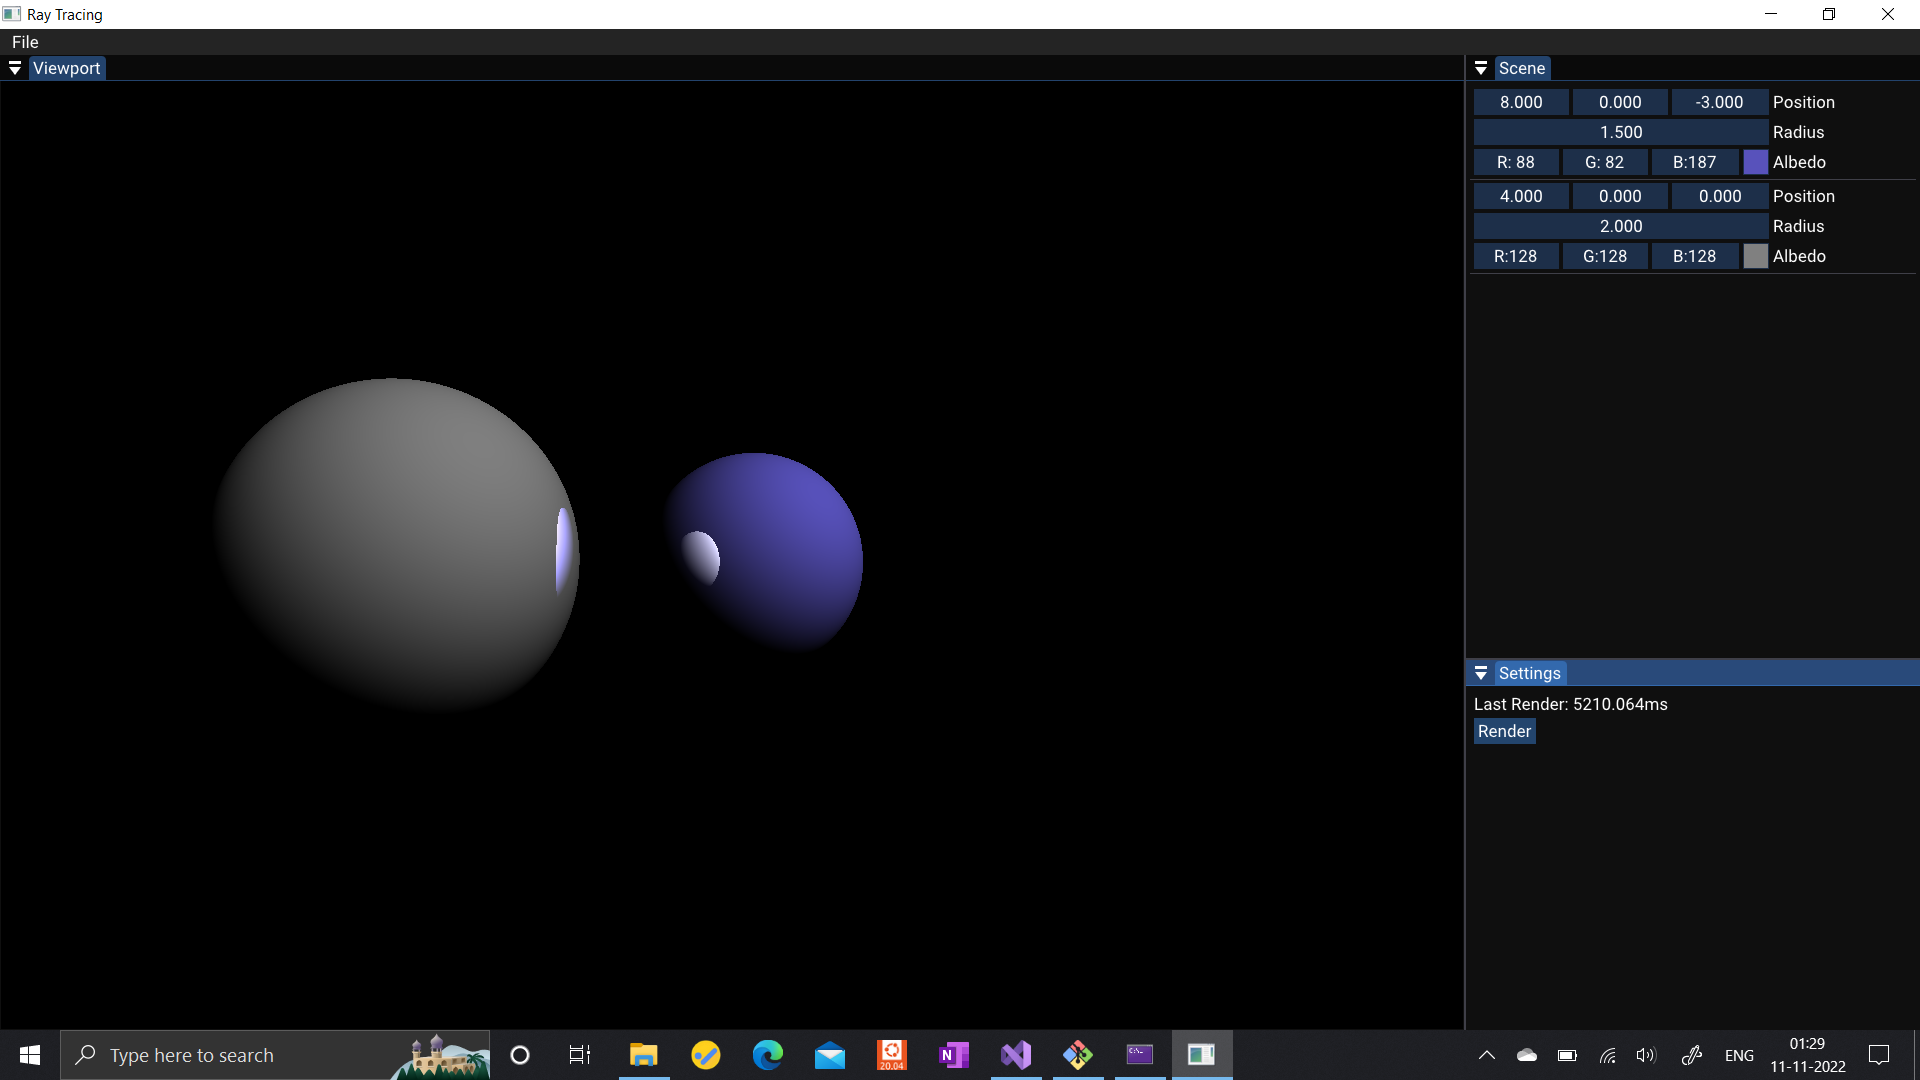
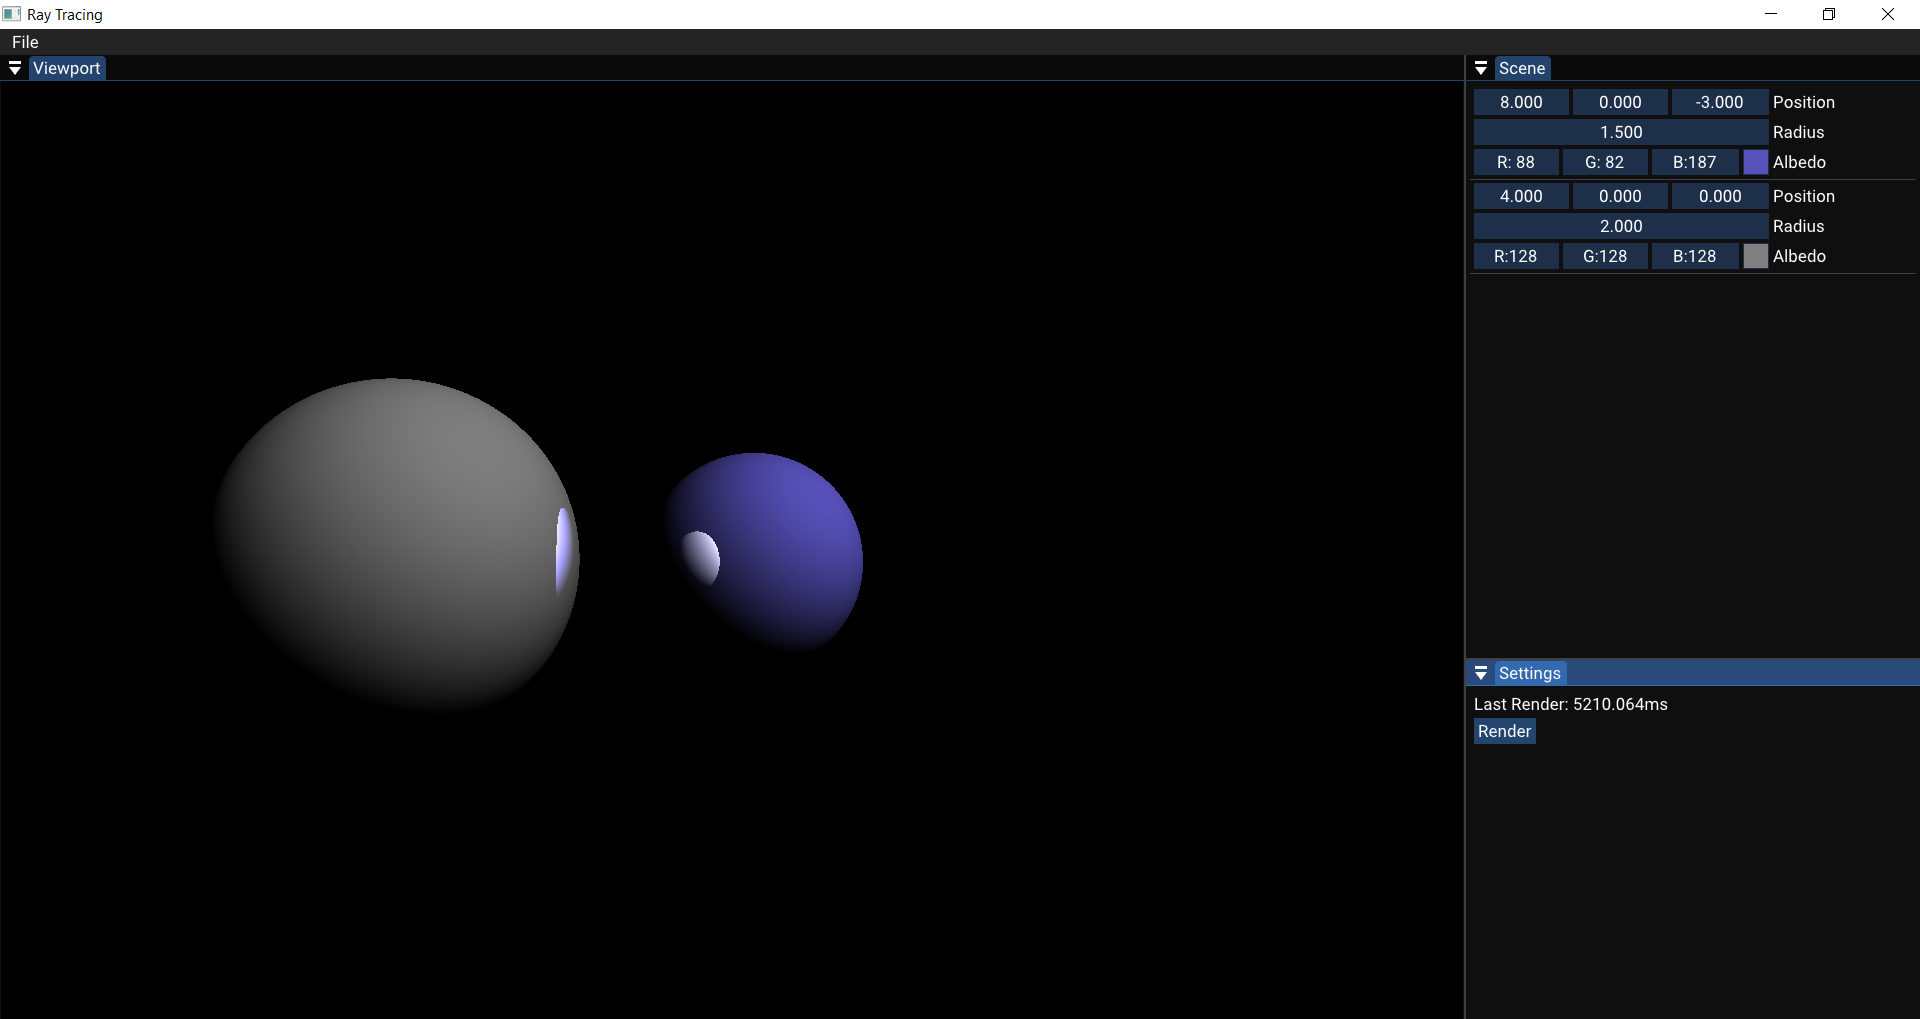
simulated PBR

diff --git a/RTweekend/src/BasicRenderMain.cpp b/RTweekend/src/BasicRenderMain.cpp
@@ -18,21 +18,28 @@ public:
 	ExampleLayer()
 		:m_Camera(45.0f, 0.1f, 100.0f) 
 	{
-		//m_Scene.Speheres.push_back(Sphere{ {0.0f, 0.0f, 0.0f}, 0.5f, {0.5, 0.5, 0.5} }); //Initializer list way
-		{
-			Sphere sphere;
-			sphere.Position = { 0.0f, 0.0f, -5.0f };
-			sphere.Radius = 1.5f;
-			sphere.Albedo = { 0.5f, 0.0f, 0.5f };
-			m_Scene.Speheres.push_back(sphere);
-		}
+		Material& pinkSpehere = m_Scene.Materials.emplace_back();
+		pinkSpehere.Albedo = { 1.0f, 0.0f, 1.0f };
+		pinkSpehere.Roughness = 0.0f;
+
+		Material& blueSphere = m_Scene.Materials.emplace_back();
+		blueSphere.Albedo = { 0.2f, 0.3f, 1.0f };
+		pinkSpehere.Roughness = 0.1f;
 
 		{
 			Sphere sphere;
 			sphere.Position = { 0.0f, 0.0f, 0.0f };
-			sphere.Radius = 0.5f;
-			sphere.Albedo = { 0.5f, 0.5f, 0.5f };
-			m_Scene.Speheres.push_back(sphere);
+			sphere.Radius = 1.0f;
+			sphere.MaterialIndex = 0;
+			m_Scene.Spheres.push_back(sphere);
+		}
+
+		{
+			Sphere sphere;
+			sphere.Position = { 0.0f, -101.0f, 0.0f };
+			sphere.Radius = 100.0f;
+			sphere.MaterialIndex = 1;
+			m_Scene.Spheres.push_back(sphere);
 		}
 
 	}
@@ -53,19 +60,37 @@ public:
 		ImGui::End();
 
 		ImGui::Begin("Scene");
-		for (int i = 0; i < m_Scene.Speheres.size() ; i++) 
+		for (size_t i = 0; i < m_Scene.Spheres.size() ; i++) 
 		{
 			ImGui::PushID(i);
 
-			Sphere& sphere = m_Scene.Speheres[i];
-			ImGui::DragFloat3("Position", glm::value_ptr(m_Scene.Speheres[i].Position), 0.1f);
-			ImGui::DragFloat("Radius", &m_Scene.Speheres[i].Radius);
-			ImGui::ColorEdit3("Albedo", glm::value_ptr(m_Scene.Speheres[i].Albedo));
+			Sphere& sphere = m_Scene.Spheres[i];
+			ImGui::DragFloat3("Position", glm::value_ptr(m_Scene.Spheres[i].Position), 0.1f);
+			ImGui::DragFloat("Radius",&sphere.Radius, 0.1f);
+			ImGui::DragInt("Material", &sphere.MaterialIndex, 1.0f, 0, (int)m_Scene.Materials.size() - 1);
 			
 			ImGui::Separator();
 
 			ImGui::PopID();
 		}
+
+		for (size_t i = 0; i < m_Scene.Materials.size(); i++)
+		{
+
+			ImGui::PushID(i);
+
+			Material& material = m_Scene.Materials[i];
+
+			//ImGui::ColorEdit3("Albedo", glm::value_ptr(m_Scene.Spheres[i].Albedo));
+			ImGui::ColorEdit3("Albedo", glm::value_ptr(material.Albedo));
+			ImGui::DragFloat("Roughness", &material.Roughness, 0.05f, 0.0f, 1.0f);
+			ImGui::DragFloat("Metallic", &material.Metallic, 0.05f, 0.0f, 1.0f);
+
+			ImGui::Separator();
+
+			ImGui::PopID();
+		}
+
 		ImGui::End();
 
 		ImGui::PushStyleVar(ImGuiStyleVar_WindowPadding, ImVec2(0.0f, 0.0f));
@@ -108,7 +133,6 @@ private:
 	Camera m_Camera;
 	Scene m_Scene;
 	uint32_t m_ViewportWidth = 0, m_ViewportHeight = 0;
-	int m_numberofSpheres = 1;
 
 	float m_lastRenderTime = 0.0f;
 };

diff --git a/RTweekend/src/Renderer.cpp b/RTweekend/src/Renderer.cpp
@@ -69,14 +69,14 @@ glm::vec4 Renderer::PerPixel(uint32_t x, uint32_t y)
 	glm::vec3 color(0.0f);
 	float multiplier = 1.0f;
 
-	int bounces = 2;
+	int bounces = 5;
 	
 	for (int i = 0 ; i < bounces; i++)
 	{
 		Renderer::HitPayload payload = TraceRay(ray);
 		if (payload.hitDistance < 0.0f)
 		{
-			glm::vec3 skyColor = glm::vec3(0.0f, 0.0f, 0.0f);
+			glm::vec3 skyColor = glm::vec3(0.6f, 0.7f, 0.9f);
 			color += skyColor * multiplier;
 			break;
 		}
@@ -88,17 +88,20 @@ glm::vec4 Renderer::PerPixel(uint32_t x, uint32_t y)
 		//lightIntensity calculation
 		float lightIntensity = glm::max(glm::dot(payload.WorldNormal, -lightDirection), 0.0f);
 
-		const Sphere& sphere = m_ActiveScene->Speheres[payload.ObjectIndex];
-		glm::vec3 sphereColor = sphere.Albedo;
+		const Sphere& sphere = m_ActiveScene->Spheres[payload.ObjectIndex];
+		const Material& material = m_ActiveScene->Materials[sphere.MaterialIndex];
+
+		glm::vec3 sphereColor = material.Albedo;
 		sphereColor *= lightIntensity;
 		color += sphereColor * multiplier;
 
-		multiplier += 0.7f;
+		multiplier *= 0.5f;
 
 
 		//Now after bouncing the Origin and RayDirections need to be changed
 		ray.Origin = payload.WorldPosition + payload.WorldNormal * 0.0001f;
-		ray.Direction = glm::reflect(ray.Direction, payload.WorldNormal);
+		ray.Direction = glm::reflect(ray.Direction, 
+			payload.WorldNormal + material.Roughness * Walnut::Random::Vec3(-0.5f, 0.5f));
 
 	}
 
@@ -118,10 +121,10 @@ Renderer::HitPayload Renderer::TraceRay(const Ray& ray)
 	int closestSphere = -1;
 	float hitDistance =  std::numeric_limits<float>::max(); // FLT_MAX;
 
-	for (size_t i = 0 ; i <  m_ActiveScene->Speheres.size(); i++) 
+	for (size_t i = 0 ; i <  m_ActiveScene->Spheres.size(); i++) 
 	{
 		
-		const Sphere& sphere = m_ActiveScene->Speheres[i];
+		const Sphere& sphere = m_ActiveScene->Spheres[i];
 
 		glm::vec3 origin = ray.Origin - sphere.Position;
 
@@ -164,7 +167,9 @@ Renderer::HitPayload Renderer::ClosestHit(const Ray& ray, float hitDistance, int
 	payload.hitDistance = hitDistance;
 	payload.ObjectIndex = objectIndex;
 	
-	const Sphere& closestSphere = m_ActiveScene->Speheres[objectIndex];
+	const Sphere& closestSphere = m_ActiveScene->Spheres[objectIndex];
+
+	//const Sphere& closestSphere = m_ActiveScene->Speheres[objectIndex];
 
 	glm::vec3 origin = ray.Origin - closestSphere.Position;
 	payload.WorldPosition = origin + ray.Direction * hitDistance;

diff --git a/RTweekend/src/Scene.h b/RTweekend/src/Scene.h
@@ -4,13 +4,22 @@
 
 #include <vector>
 
+struct Material
+{
+	glm::vec3 Albedo{ 1.0f };
+	float Roughness = 1.0f;
+	float Metallic = 0.0f;
+
+};
+
 struct Sphere {
-	glm::vec3 Position{0.0f, 0.0f, 0.0f};
+	glm::vec3 Position{0.0f};
 	float Radius = 0.5f;
 
-	glm::vec3 Albedo{ 1.0f };
+	int MaterialIndex = 0;
 };
 
 struct Scene {
-	std::vector<Sphere> Speheres;
+	std::vector<Sphere> Spheres;
+	std::vector<Material> Materials;
 };

diff --git a/RTweekend/src/Camera.cpp b/RTweekend/src/Camera.cpp
@@ -12,7 +12,7 @@ Camera::Camera(float verticalFOV, float nearClip, float farClip)
 	: m_VerticalFOV(verticalFOV), m_NearClip(nearClip), m_FarClip(farClip)
 {
 	m_ForwardDirection = glm::vec3(0, 0, -1);
-	m_Position = glm::vec3(0, 0, 3);
+	m_Position = glm::vec3(0, 0, 10);
 }
 
 void Camera::OnUpdate(float ts)

diff --git a/README.md b/README.md
@@ -2,16 +2,19 @@
 This repository contains Implementation of Ray Tracing from scratch.
 
 ## [Latest](https://github.com/rajashekarkasturi/RTweekend)
-The whole code is restructured to work more like Raytracing shaders.
-* Added some lighting to the spheres while shooting rays by invoking TraceRay() functionality from PerPixel(). 
-* Focus Area
+Added behavioural lightning to sphere based on material system which are now mapped to spheres Individually, Earlier I was unfortunately running on Debug Build, so changed it to Release.
+* Specifying the materials Individually
     ```
-    RTweekend/src/Renderer.cpp
-    PerPixel(); TraceRay();
-    ClosestHit();
-    Miss();
+    src/BasicRendererMain.cpp // L 21-42
+    src/Scene.h 
     ```
-    ![RT-raybounce-basic-reflection](/assets//images/RT-Raybouncing-basic-reflection.png)
+* Reflected rays property is changed by simulating the World's Normal, [microfacet](https://www.pbr-book.org/3ed-2018/Reflection_Models/Microfacet_Models) .
+    ```
+    src/Renderer.cpp // L 103
+    ```
+    ![Materialism](/assets/images/materials_PBR_1.png)
+
+    ![Materialism](/assets/images/materials_PBR_2.png)
 
 
 ## [Output 1](https://github.com/rajashekarkasturi/RTweekend/tree/b3c1bf220b838ce092d41051aca96c856ba9dd01)
@@ -68,6 +71,18 @@ Real-time Rendering of multiple spheres interactively with ImGUI.
     BasicRenderMain:: -> ExampleLayer's constructor(adding of spheres), OnUIRender(Interaction with Spheres in Realtime)
     ```
     ![Rendering_Multiple_Spheres](/assets//images/RT-multipleSpheres.png)
+
+## [Output 6](https://github.com/rajashekarkasturi/RTweekend/tree/045263854eab5e678c9f28499eb50502ce60fd21)
+The whole code is restructured to work more like Raytracing shaders.
+* Added some lighting to the spheres while shooting rays by invoking TraceRay() functionality from PerPixel(). 
+* Focus Area
+    ```
+    RTweekend/src/Renderer.cpp
+    PerPixel(); TraceRay();
+    ClosestHit();
+    Miss();
+    ```
+    ![RT-raybounce-basic-reflection](/assets//images/RT-Raybouncing-basic-reflection.png)
 
 ## Credits
 ### Walnut App Template
